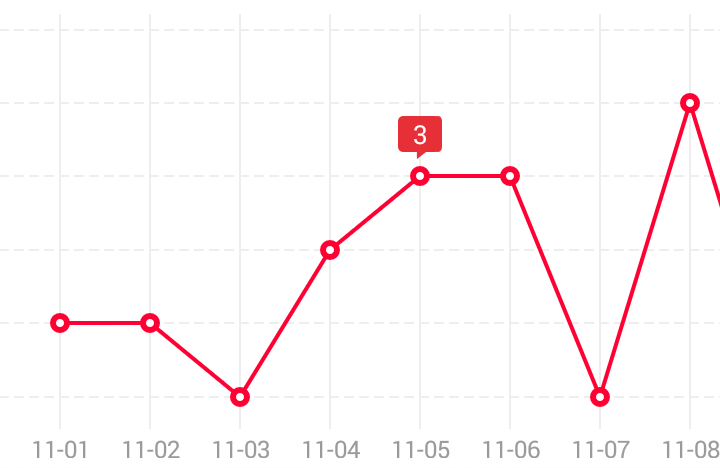
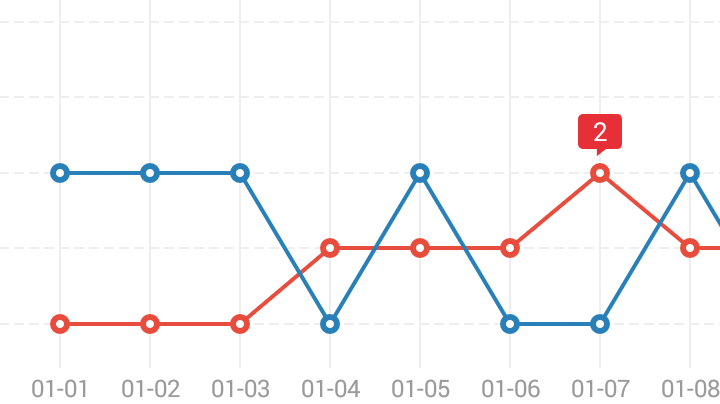
minor change

diff --git a/AndroidChartsExample/src/main/java/com/dacer/androidchartsexample/LineFragment.java b/AndroidChartsExample/src/main/java/com/dacer/androidchartsexample/LineFragment.java
@@ -15,7 +15,7 @@ import java.util.ArrayList;
  * Created by Dacer on 11/15/13.
  */
 public class LineFragment extends Fragment {
-    int randomint = (int)(Math.random()*30+6);
+    int randomint = 9;
 
     @Override
     public View onCreateView(LayoutInflater inflater, ViewGroup container,
@@ -30,7 +30,7 @@ public class LineFragment extends Fragment {
         }
         lineView.setBottomTextList(test);
         lineView.setDrawDotLine(true);
-        lineView.setShowPopup(LineView.SHOW_POPUPS_MAXMIN_ONLY);
+        lineView.setShowPopup(LineView.SHOW_POPUPS_NONE);
 
         Button lineButton = (Button)rootView.findViewById(R.id.line_button);
         lineButton.setOnClickListener(new View.OnClickListener() {
@@ -47,19 +47,19 @@ public class LineFragment extends Fragment {
 
     private void randomSet(LineView lineView){
         ArrayList<Integer> dataList = new ArrayList<Integer>();
-        int random = (int)(Math.random()*99+1);
+        int random = (int)(Math.random()*9+1);
         for (int i=0; i<randomint; i++){
             dataList.add((int)(Math.random()*random));
         }
         
         ArrayList<Integer> dataList2 = new ArrayList<Integer>();
-        random = (int)(Math.random()*99+1);
+        random = (int)(Math.random()*9+1);
         for (int i=0; i<randomint; i++){
 			dataList2.add((int)(Math.random()*random));
         }
 
         ArrayList<Integer> dataList3 = new ArrayList<Integer>();
-        random = (int)(Math.random()*99+1);
+        random = (int)(Math.random()*9+1);
         for (int i=0; i<randomint; i++){
             dataList3.add((int)(Math.random()*random));
         }
@@ -67,7 +67,7 @@ public class LineFragment extends Fragment {
         ArrayList<ArrayList<Integer>> dataLists = new ArrayList<ArrayList<Integer>>();
         dataLists.add(dataList);
         dataLists.add(dataList2);
-        dataLists.add(dataList3);
+//        dataLists.add(dataList3);
         
         lineView.setDataList(dataLists);
     }
